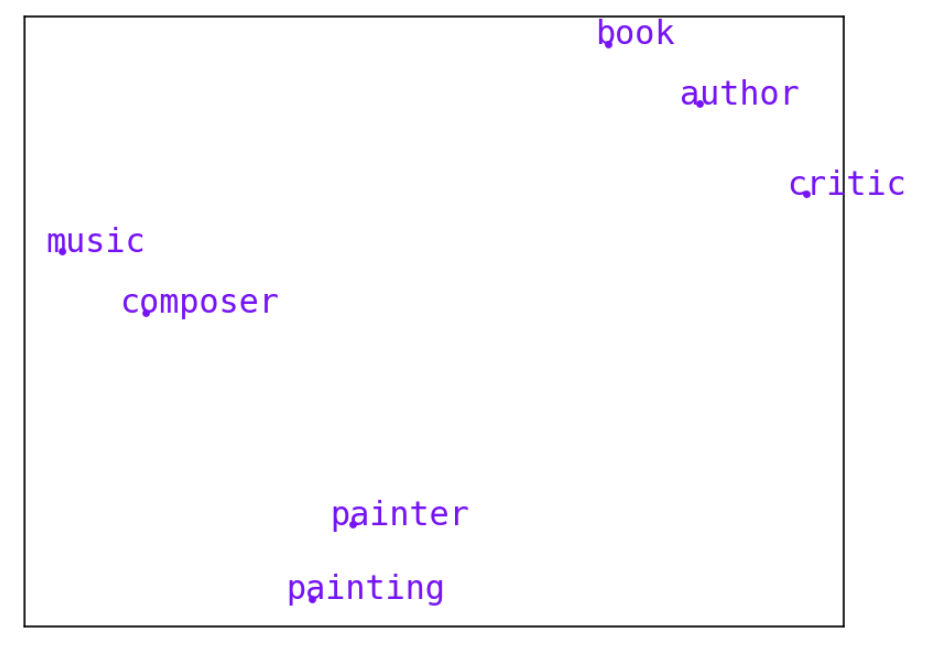
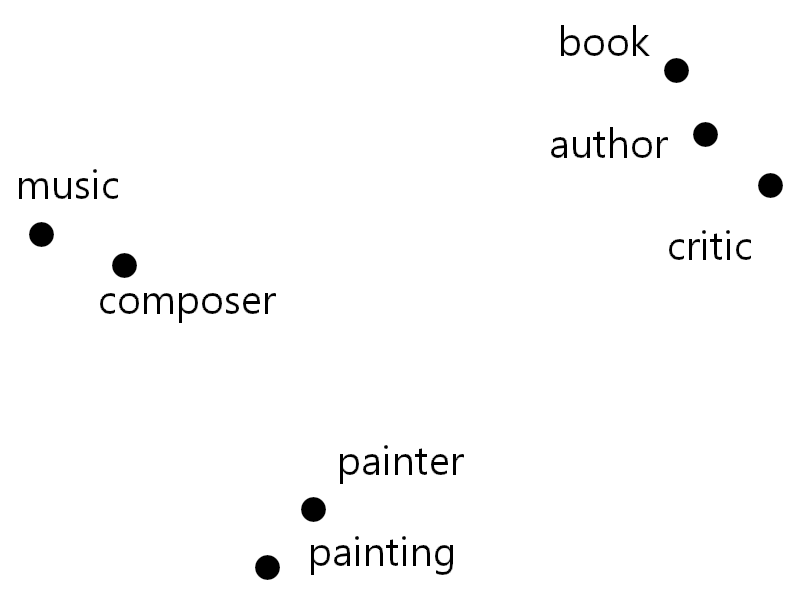
Updated word embedding pic

diff --git a/WordEmbeddings.tex b/WordEmbeddings.tex
@@ -96,8 +96,8 @@ For a sense of how the approach works, here are seven words embedded in a space,
 
 \begin{figure}[h]
     \centering
-    \includegraphics[scale=.5]{./images/Word_vector_demo.png}
-    \caption[Generated using \url{http://vectors.nlpl.eu/explore/embeddings/en/}.]{Example of word embeddings in a semantic space. An embedding space for the seven words: ``book'', ``author'', ``critic'', ``music'', ``composer'', ``painter'', ``painting''. Notice that intuitively similar concepts are near each other in this space. }
+    \includegraphics[scale=.3]{./images/Word_vector_demo.png}
+    \caption[Adapted from an image generated using \url{http://vectors.nlpl.eu/explore/embeddings/en/}.]{Example of a word embedding in a semantic space. Each word is associated with a point in a space and the distance between points corresponds to semantic similarity. Notice that intuitively similar words are near each other in this space. }
  \label{f:writerPainterExample}
 \end{figure}
 
